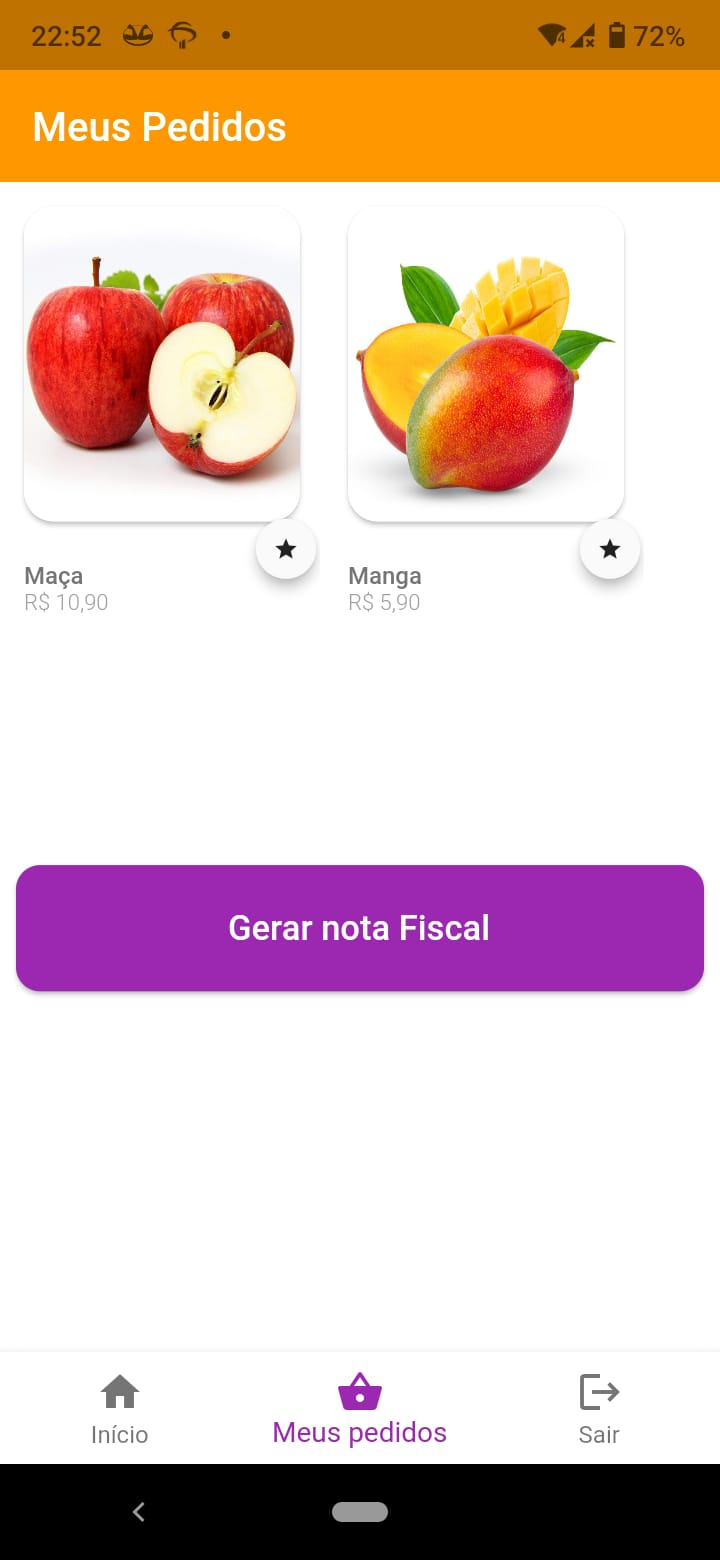
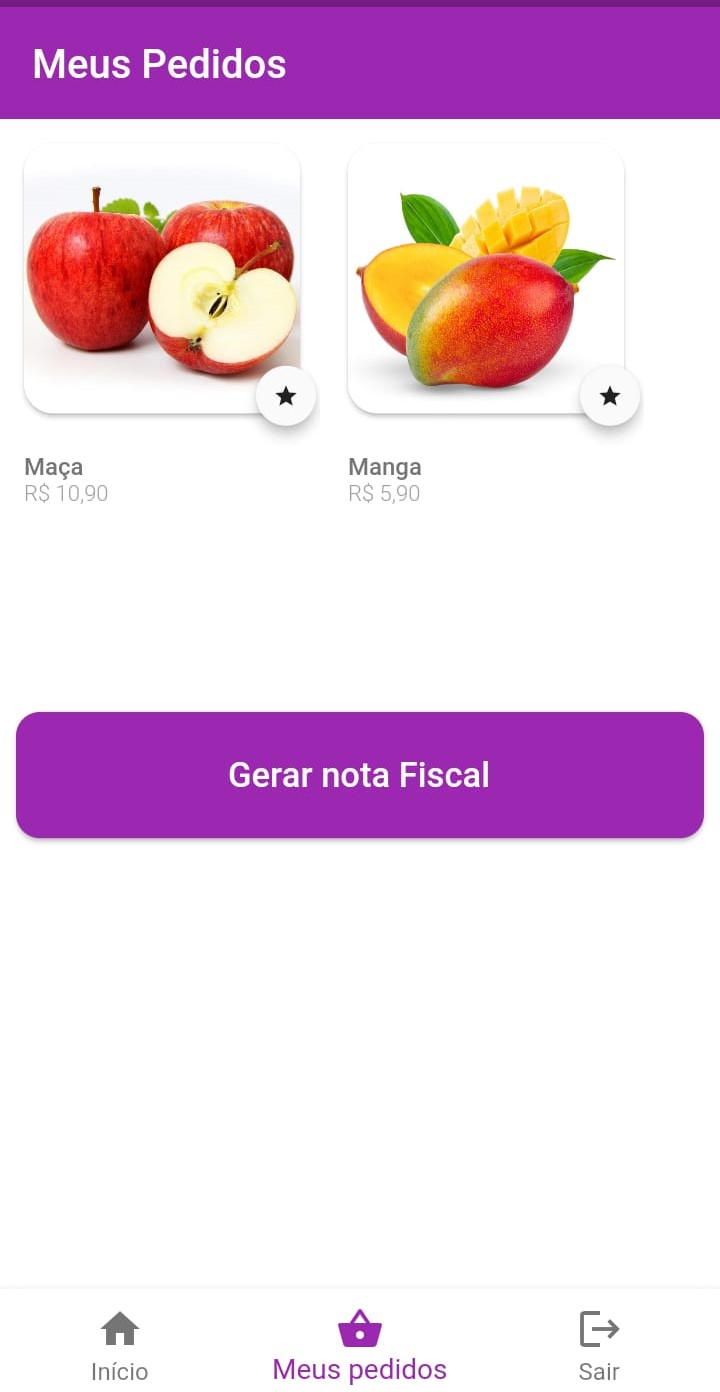
Atualizando imagens readme

diff --git a/lib/screens/home/produtos_inicio.dart b/lib/screens/home/produtos_inicio.dart
@@ -81,7 +81,7 @@ class _ProdutosInicioState extends State<ProdutosInicio> {
             ),
           ),
           SizedBox(
-            height: getProportionateScreenHeight(300),
+            height: getProportionateScreenHeight(250),
             child: ListView.builder(
               scrollDirection: Axis.horizontal,
               itemCount: listaProdutos.length,
@@ -105,7 +105,7 @@ class _ProdutosInicioState extends State<ProdutosInicio> {
             ),
           ),
           SizedBox(
-            height: getProportionateScreenHeight(300),
+            height: getProportionateScreenHeight(250),
             child: ListView.builder(
               scrollDirection: Axis.horizontal,
               itemCount: listaProdutos2.length,

diff --git a/lib/components/card_produtos.dart b/lib/components/card_produtos.dart
@@ -34,7 +34,7 @@ class CardProdutos extends StatelessWidget {
                     clipBehavior: Clip.antiAlias,
                     child: Image.asset(
                       imagem,
-                      height: getProportionateScreenHeight(175),
+                      height: getProportionateScreenHeight(150),
                       width: getProportionateScreenWidth(150),
                       fit: BoxFit.fill,
                     ),

diff --git a/lib/screens/home/meus_pedidos.dart b/lib/screens/home/meus_pedidos.dart
@@ -33,7 +33,7 @@ class _MeusPedidosState extends State<MeusPedidos> {
         crossAxisAlignment: CrossAxisAlignment.start,
         children: [
           SizedBox(
-            height: getProportionateScreenHeight(300),
+            height: getProportionateScreenHeight(250),
             child: ListView.builder(
               scrollDirection: Axis.horizontal,
               itemCount: listaProdutos.length,

diff --git a/lib/screens/home/home_page.dart b/lib/screens/home/home_page.dart
@@ -36,7 +36,7 @@ class _HomePageState extends State<HomePage> {
   Widget build(BuildContext context) {
     return Scaffold(
       appBar: AppBar(
-        backgroundColor: Colors.orange,
+        backgroundColor: Colors.purple,
         title: Text(_paginaAtual == 0 ? 'Produtos' : 'Meus Pedidos'),
       ),
       backgroundColor: Colors.white,

diff --git a/README.md b/README.md
@@ -9,10 +9,10 @@
 <h2>📱 Preview</h2>
 
    <p align="center">
-      <img src="assets/images/gihub/login.jpeg" width="190" alt="Tela de Login">
-      <img src=".github/login.png" width="190" alt="Tela principal de Filmes">
-      <img src=".github/print3.png" width="190" alt="Favoritos">
-      <img src=".github/print4.png" width="190" alt="Filmes mais assistidos">
+      <img src="./assets/images/github/splash.jpeg" width="190" alt="Splash Page">
+      <img src="./assets/images/github/login.jpeg" width="190" alt="Tela de Login">
+      <img src="./assets/images/github/produtos.jpeg" width="190" alt="Produto">
+      <img src="./assets/images/github/carrinho.jpeg" width="190" alt="Carrinho">
    </p>
 
 ---
